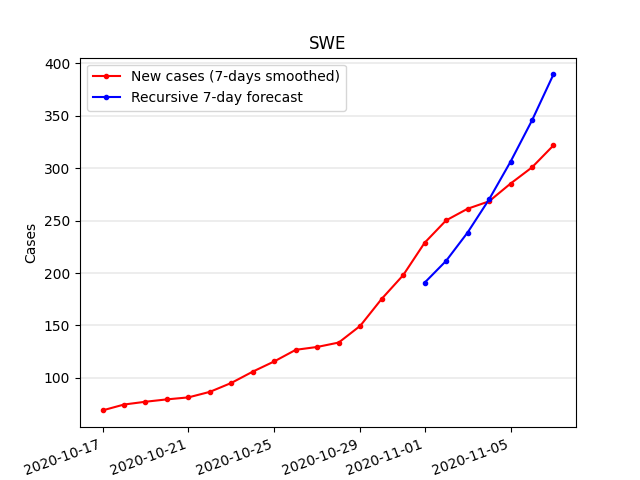
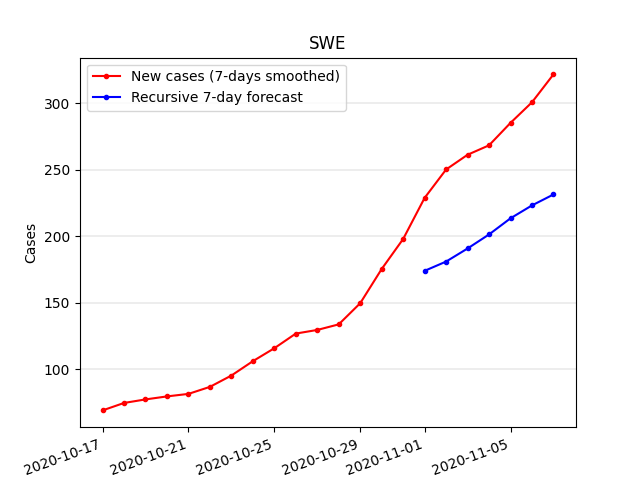
prediction cleanup LSTM

diff --git a/lstm/lstm_all_countries.py b/lstm/lstm_all_countries.py
@@ -73,7 +73,7 @@ with open("../data/train_test_codes.json", "r") as read_file:
 start_date, end_date = "2020-03-01", "2020-10-31"
 n_lag_days = 7
 n_daily_features = 1
-n_single_features = 5
+n_single_features = 4
 n_obs = n_lag_days * n_daily_features + n_single_features  # 11 in this case
 
 raw_euro_data = pd.read_csv("../data/euro_countries_filled.csv", index_col=0)
@@ -82,9 +82,9 @@ euro_data["date"] = euro_data["date"].apply(date_to_number)
 euro_data = euro_data[euro_data["date"] <= date_to_number(end_date)]
 
 # Scale chosen features
-forecast_columns = ["date", "latitude", "longitude", "population", "stringency_index",
+forecast_columns = ["date", "latitude", "longitude", "stringency_index",
                     "new_cases_smoothed_per_million", "iso_code"]
-scale_columns = ["date", "latitude", "longitude", "population", "stringency_index",
+scale_columns = ["date", "latitude", "longitude", "stringency_index",
                  "new_cases_smoothed_per_million"]
 forecast_data = euro_data[forecast_columns].copy(deep=True)
 scaler = MinMaxScaler(feature_range=(0, 1))
@@ -92,7 +92,7 @@ forecast_data[scale_columns] = scaler.fit_transform(forecast_data[scale_columns]
 
 forecast_data = series_to_in_out_pairs(forecast_data, n_in=n_lag_days, n_out=1,
                                        leave_cols=["date", "latitude", "longitude",
-                                                   "population", "stringency_index", "iso_code"])
+                                                   "stringency_index", "iso_code"])
 
 
 def date_scaling(d):
@@ -167,7 +167,7 @@ lstm_predictions = pd.DataFrame()
 lstm_predictions["date"] = pred_dates
 country_mae_list = []
 # Plot 7 steps ahead forecast for chosen countries and compute MAE of recursive prediction on test set
-euro_sum_y = zeros(7)
+
 plt.clf()
 for code in iso_codes:
     country_data = forecast_data[forecast_data["iso_code"] == code]
@@ -210,7 +210,6 @@ for code in iso_codes:
     country_mae = mean_absolute_error(test_y, pred_y)
     country_mae_list.append(country_mae)
 
-    euro_sum_y += pred_y
     # Demo countries
     if code in ["DEU", "ESP", "NOR", "SWE"]:
         recent_history = raw_euro_data[raw_euro_data["iso_code"] == code]
@@ -221,7 +220,7 @@ for code in iso_codes:
 
         recent_dates = [datetime.fromisoformat(d) for d in recent_history[["date"]].values.flatten()]
 
-        country_mae = mean_absolute_error(recent_y[-7:], pred_y)
+        country_mae = mean_absolute_error(recent_y[-n_pred_steps:], pred_y)
         print("{:s} 7-days-ahead MAE: {:.2f}".format(code, country_mae))
 
         plt.plot_date(recent_dates, recent_y, "r.-")
@@ -239,5 +238,5 @@ for code in iso_codes:
 
 total_mae = sum(country_mae_list) / len(country_mae_list)
 print("MAE of entire test set: {:.2f}".format(total_mae))
-lstm_predictions.to_pickle("../lstm_predictions/lstm_predictions.pkl")
-lstm_predictions.to_csv("../lstm_predictions/lstm_predictions.csv")
+
+lstm_predictions.to_csv("../predictions/lstm_predictions.csv")
